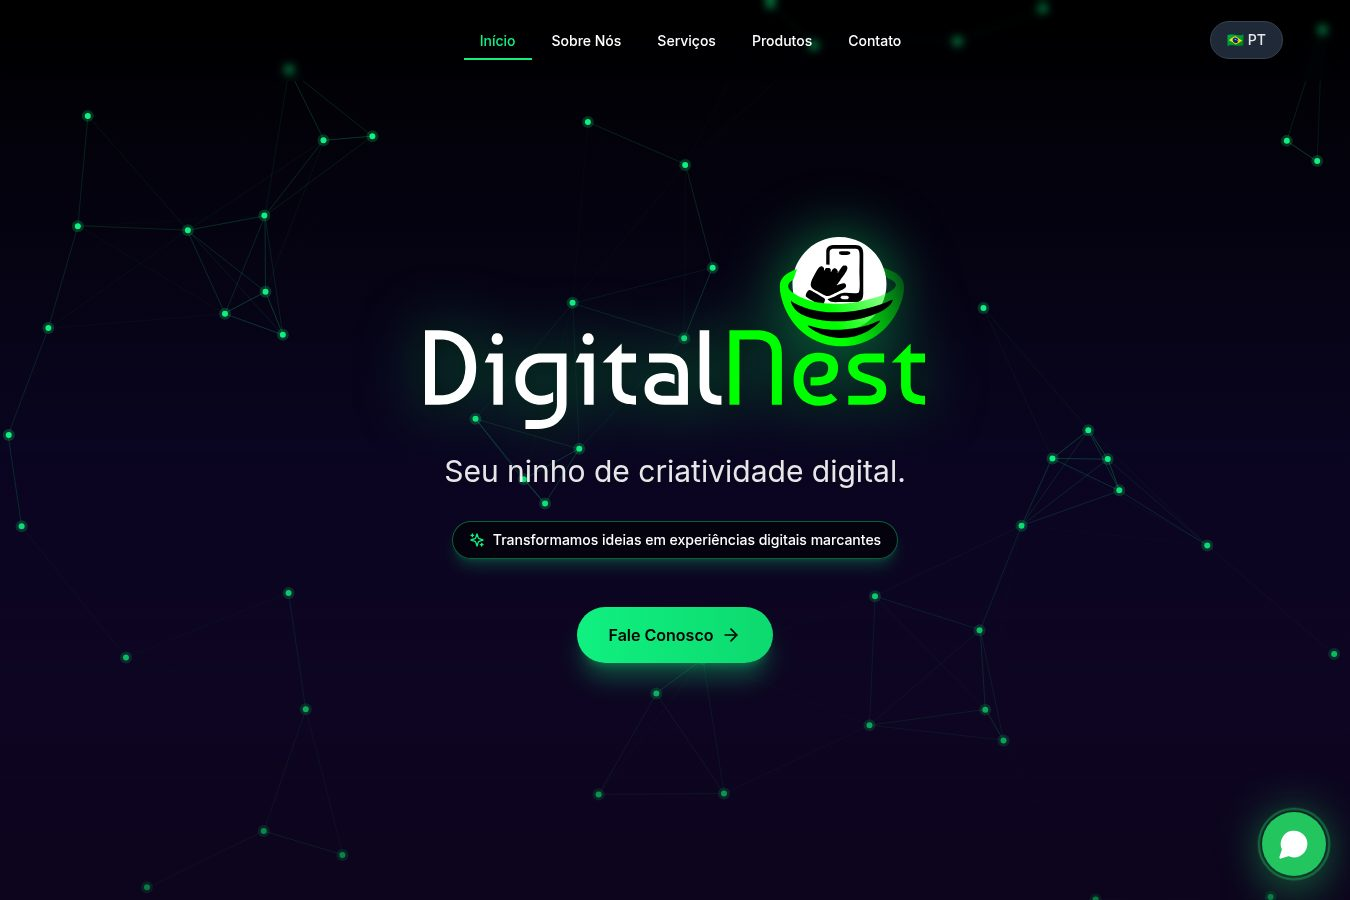
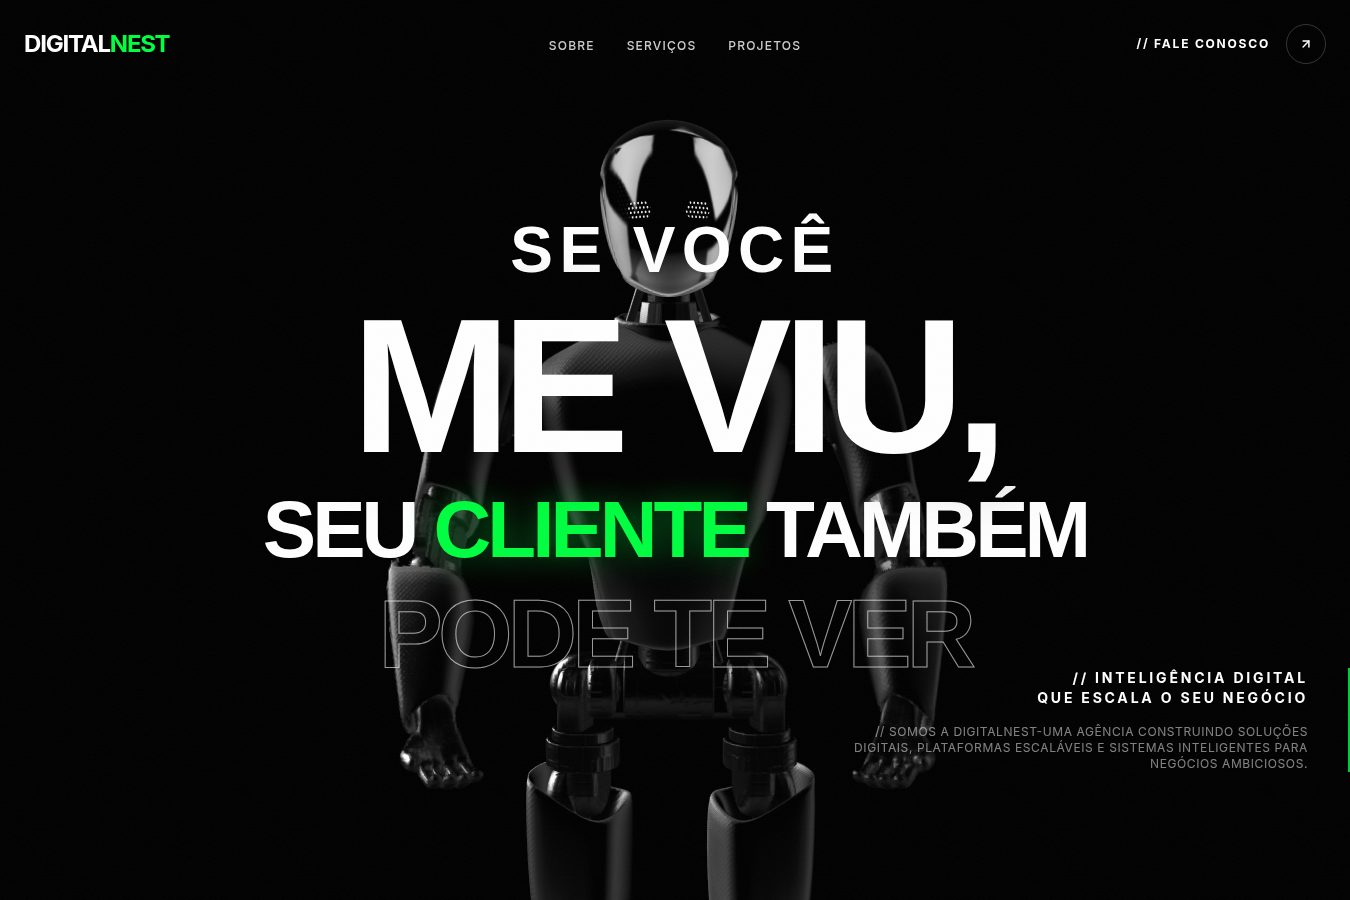
Adiciona experiência em ensino (CESAR School) e projetos AlaxPrint e Hellena Mendes
DigitalNest atualizado para a nova demo 3D (digital-nest-demo.vercel.app)
com screenshot novo.

diff --git a/index.html b/index.html
@@ -105,6 +105,7 @@
         <div class="about__text">
           <h2 class="about__headline anim-lines">Desenvolvedor tentando <em>sonhar grande</em> — e transformando cada sonho em produto real.</h2>
           <p class="about__body anim-lines">Sou fullstack com alma de designer. No backend, navego entre Node.js, Laravel e Python; no front, dou vida a interfaces com React, Vue e Next.js. Mas é na fronteira entre código e arte — WebGL, shaders, motion — que eu realmente me encontro.</p>
+          <p class="about__body anim-lines">Também divido o que aprendo ensinando: já lecionei para faculdades como a CESAR School, levando desenvolvimento web pra sala de aula.</p>
           <p class="about__body anim-lines">Acredito que um site não deve apenas funcionar: deve provocar algo em quem o visita.</p>
           <div class="about__stats">
             <div class="stat"><span class="stat__num" data-count="2">0</span><span class="stat__plus">+</span><span class="stat__label">anos de experiência</span></div>
@@ -170,13 +171,31 @@
           <p class="project__desc">Aplicativo de gestão desenvolvido durante mentoria — do banco de dados à interface.</p>
         </a>
 
-        <a class="project" href="https://digitalnest-phi.vercel.app" target="_blank" rel="noopener"
+        <a class="project" href="https://digital-nest-demo.vercel.app" target="_blank" rel="noopener"
            data-img="assets/projects/digitalnest.jpg">
           <span class="project__index">006</span>
           <h3 class="project__title">DigitalNest</h3>
-          <span class="project__meta">Agência · Next.js · Motion</span>
+          <span class="project__meta">Agência · 3D · Motion</span>
           <span class="project__arrow">↗</span>
-          <p class="project__desc">Presença digital para agência — identidade, movimento e performance.</p>
+          <p class="project__desc">Agência digital com experiência 3D imersiva — soluções escaláveis e sistemas inteligentes.</p>
+        </a>
+
+        <a class="project" href="https://alax-print.vercel.app" target="_blank" rel="noopener"
+           data-img="assets/projects/alaxprint.jpg">
+          <span class="project__index">007</span>
+          <h3 class="project__title">AlaxPrint</h3>
+          <span class="project__meta">Institucional · TypeScript</span>
+          <span class="project__arrow">↗</span>
+          <p class="project__desc">Tecnologia que imprime soluções — venda, locação e suporte de impressoras de grande formato.</p>
+        </a>
+
+        <a class="project" href="https://hellena-mendes.vercel.app" target="_blank" rel="noopener"
+           data-img="assets/projects/hellena.jpg">
+          <span class="project__index">008</span>
+          <h3 class="project__title">Hellena Mendes</h3>
+          <span class="project__meta">Portfólio · Branding · Design</span>
+          <span class="project__arrow">↗</span>
+          <p class="project__desc">Portfólio para designer gráfica — identidades visuais com sensibilidade, escuta e propósito.</p>
         </a>
 
       </div>
@@ -186,7 +205,7 @@
       </div>
 
       <a class="work__more magnetic" href="https://github.com/cantalusto?tab=repositories" target="_blank" rel="noopener" data-cursor="hover">
-        <span>+46 NO GITHUB</span>
+        <span>+44 NO GITHUB</span>
       </a>
     </section>
 
@@ -213,6 +232,10 @@
         <div class="stack-row" data-cursor="hover">
           <h3 class="stack-row__title">Infra</h3>
           <p class="stack-row__tags">Docker · AWS · Vercel · Git · Linux</p>
+        </div>
+        <div class="stack-row" data-cursor="hover">
+          <h3 class="stack-row__title">Ensino</h3>
+          <p class="stack-row__tags">Aulas · Workshops · Mentoria · CESAR School</p>
         </div>
       </div>
     </section>